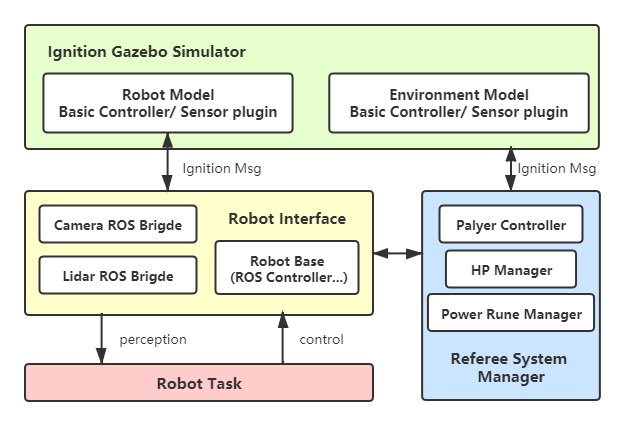
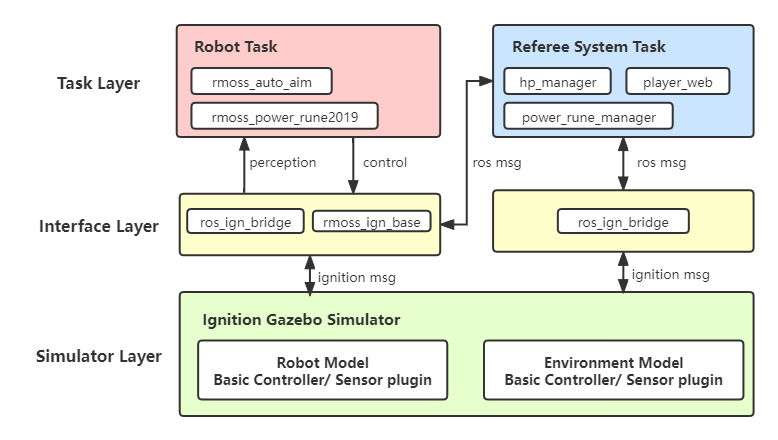
update rmoss_ign_design

diff --git a/docs/design/rmoss_ign_design.md b/docs/design/rmoss_ign_design.md
@@ -1,3 +1,51 @@
 # RMOSS Ign设计模式
 
-TODO
+[rmoss_ign](https://github.com/robomaster-oss/rmoss_ign)是基于Ignition Gazebo为RoboMaster开发的仿真器项目。仿真机器人环境可以让我们缺少真实机器人或真实场地时，也能够够进行相应机器人算法软件开发，我们可以在仿真环境对我们的机器人算法进行初步验证，甚至构建完整的比赛仿真器，用于操作手的对战训练。相比于真实机器人，使用效率高，可不间断使用，即使我们拥有真实机器人的情况下，我们仍然可以利用仿真机器人用于我们的机器人开发，比如进行机器人AI训练，或做一些算法的自动化测试。总得来说仿真机器人不可替代真实机器人，但是仿真机器人可以在机器人开发中提高我们的开发效率，在算法初步验证，自动化测试，AI训练，操作手模拟训练等方面有着重要用途。
+
+>  [Ignition Gazebo](https://ignitionrobotics.org/) 是一款开源的机器人仿真器，包含了一系列构建仿真的工具，是基于上一代Gazebo仿真器的重构版本，对ROS兼容友好，并对多机器人仿真支持较好，目前还在快速开发中。
+
+### 1.系统架构
+
+rmoss_ign系统架构保持和[RMOSS基本设计模式](https://robomaster-oss.github.io/rmoss_tutorials/#/design/rmoss_design)一致，同样可分为三层，Simulator层（对应真实机器人硬件层），Interface层，Task层，然后Task层运行在ROS上，可分为机器人任务和裁判系统任务，接口层运行ROS之上，但是也可以与仿真器进行通信，Simulator层和Task层通过Interface层解耦，考虑到ROS使用会更加灵活，在这个架构中，Ignition Gazebo仿真器尽量完成简单的与仿真密切相关的任务，而复杂的任务逻辑都在Task层（ROS）进行处理。
+
+![](imgs/rmoss_ign_arch.png)
+
+对于Ignition Gazebo层，我们需要实现基本的机器人和场地仿真模型，Ignition Gazebo机器人仿真主要包括两部分：仿真建模和仿真插件。
+
+- 仿真建模：首先需要对机器人进行3D建模，在sdf文件定义了模型的link与joint等信息。
+- 仿真插件：作用于仿真模型，可与仿真器直接交互，给仿真模型施加力，获取仿真真模型状态等，实现机器人在仿真器中的感知，控制等功能。
+
+对于接口层，主要采用topic通信的方式将Ignition Gazebo层和ROS任务层进行连接，这里的接口层，简单的只实现数据中继的功能（`ros_ign_bridge`），如相机传感器数据，激光雷达数据，电机控制指令等，复杂的会实现一些控制器逻辑（`rmoss_ign_base`），比如机器人底盘云台控制器，实现对机器人的底盘跟随云台控制等多种模式。
+
+对于任务层，机器人任务与真实机器人开发中的任务模块一致，使得可以方便进行算法在仿真环境中的验证与自动化测试，对于裁判系统，主要的任务逻辑都在ROS层实现，利用python可以灵活的实现裁判系统逻辑，完成完整比赛仿真。
+
+### 2.模型
+
+采用[xmacro](https://github.com/gezp/xmacro)方式进行sdf模块化建模，裁判系统模块统一采用标准模型（`rmoss_ign_resource`），其他机器人应该复用这些模块，保证裁判系统一致。
+
+进行SDF建模应该尽可能遵守以下几个原则：
+
+* `插件分离原则` : 使用`xmacro`进行模块化时，插件应该和模型分离，这样方便使用自定义的插件作为控制器。
+* `Collision简洁原则`：在构建机器人`<collision>`时，尽可能采用简单的几何（如`box`，`cylinder`, `sphere`）代替复杂`mesh`文件，必要时可以忽略部分collision，减小仿真计算量。
+
+### 3.控制器
+
+在完成仿真机器人模型和比赛场地模型的构建后，我们需要对机器人进行控制，也需要裁判系统对比赛过程进行监控，这个时候就需要一些控制逻辑了，实现控制逻辑可分为两层，第一层是Ignition Gazebo插件，第二层是ROS控制节点。Ignition Gazebo插件尽量完成简单的控制任务，基于Ignition Gazebo插件提供的基本控制接口，复杂的控制任务应该可以在ROS上进行。
+
+* Ignition Gazebo插件：实现机器人在仿真器中的感知，控制等基本功能，如电机控制，灯条颜色切换，射击子弹。
+* ROS控制节点：Ignition Gazebo插件只完成基本的控制，而复杂控制逻辑应该在ROS层进行，如底盘跟随云台控制器，能量机关控制逻辑。
+
+这样的分层可以让我们灵活的调整裁判系统功能，对于下一年的比赛新规则发生了变化，这种设计可以不用改变Ignition Gazebo插件，可以继续用之前的Ignition Gazebo插件，只改变ROS控制节点即可，比如2021年的能量机关，只是改变大风车旋转的速度，我们可以只改变ROS控制节点即可。这里有两个控制器分层设计的例子：
+
+* 对于机器人控制，如底盘控制，仿真器Ignition Gazebo只提供底盘控制和云台电机控制基本控制接口，通过`ros_ign_bridge`与ROS建立连接，在ROS层实现了更高级的底盘跟随云台控制。
+* 对于场地模型控制（或裁判系统），如能量机关，仿真器Ignition Gazebo只提供指示灯与电机控制接口，通过`ros_ign_bridge`与ROS建立连接，具体的能量机关亮灯逻辑和转动逻辑在ROS层实现。
+
+### 4.裁判系统
+
+类似于控制器分层设计，需要使用Ignition Gazebo插件与仿真器直接交互，从仿真器获取直接数据（如机器人速度，机器人位置等），但是具体的复杂逻辑应该使用ROS节点方式完成，如进行血量管理，判定超速，判定激活能量机关成功，判定比赛结束等等。
+
+裁判系统开发原则：
+
+* 裁判系统使用的topic命名空间应该为`/referee_system`。
+* 裁判系统建议采用python实现（使用方便）。
+
